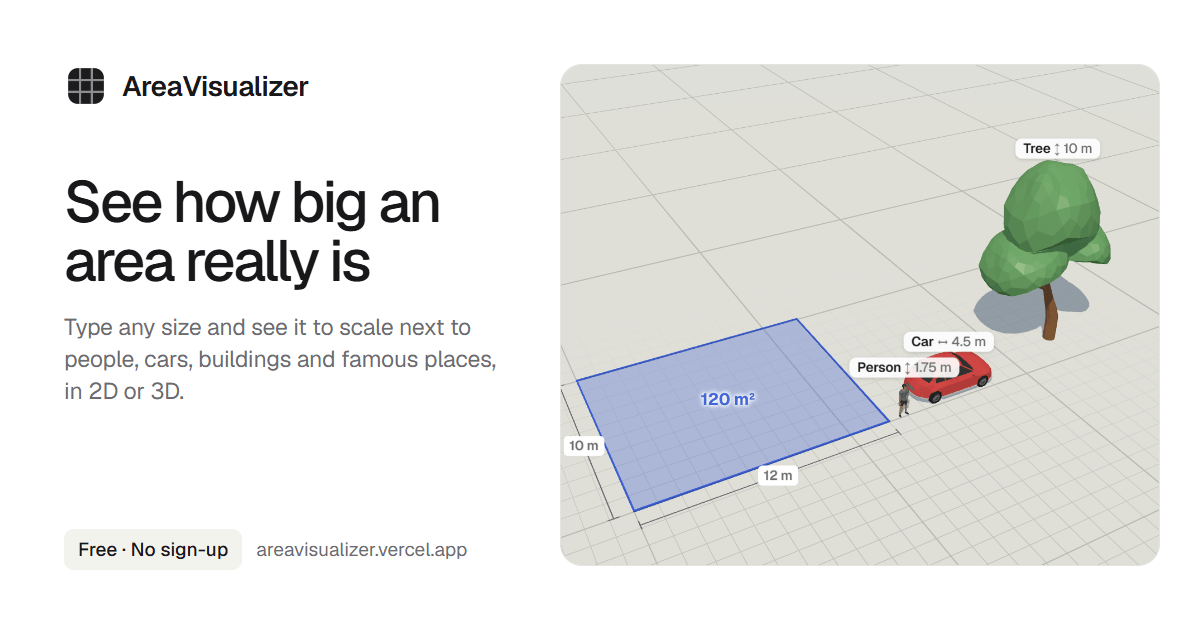
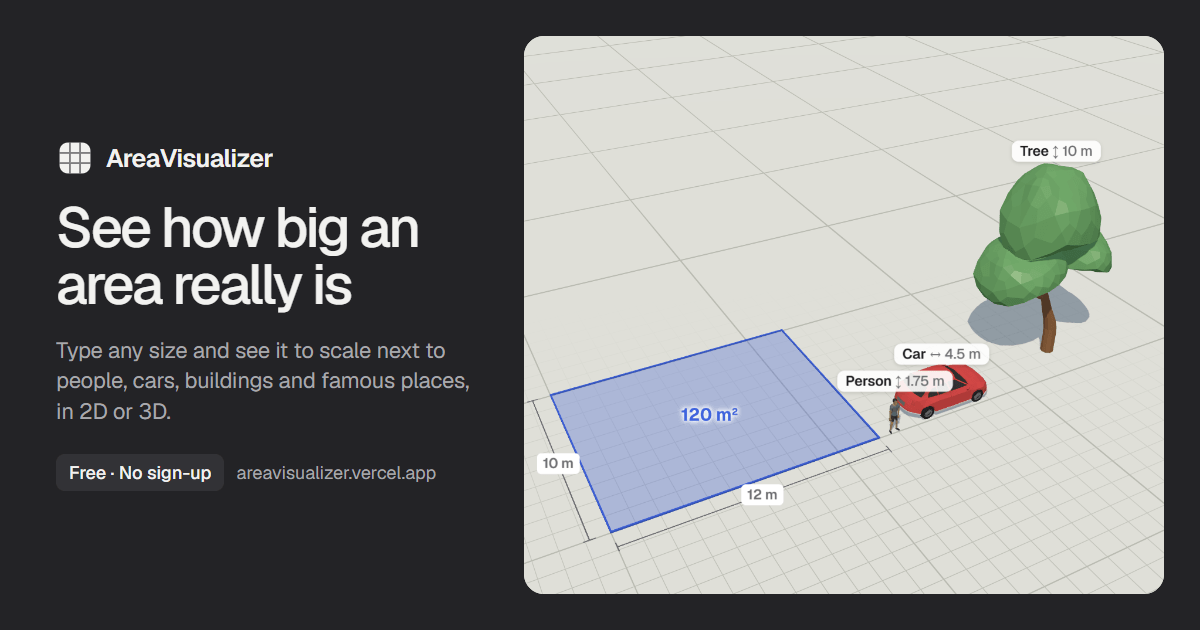
new preview image

diff --git a/index.html b/index.html
@@ -17,7 +17,8 @@
   <!-- The live address: update these four lines (and sitemap.xml, robots.txt) if it changes. -->
   <link rel="canonical" href="https://areavisualizer.vercel.app/">
   <meta property="og:url" content="https://areavisualizer.vercel.app/">
-  <meta property="og:image" content="https://areavisualizer.vercel.app/og-image.png">
+  <!-- Bump ?v= when og-image.png changes: chat apps cache the picture by its address. -->
+  <meta property="og:image" content="https://areavisualizer.vercel.app/og-image.png?v=3">
   <meta property="og:image:type" content="image/png">
   <meta property="og:image:width" content="1200">
   <meta property="og:image:height" content="630">
